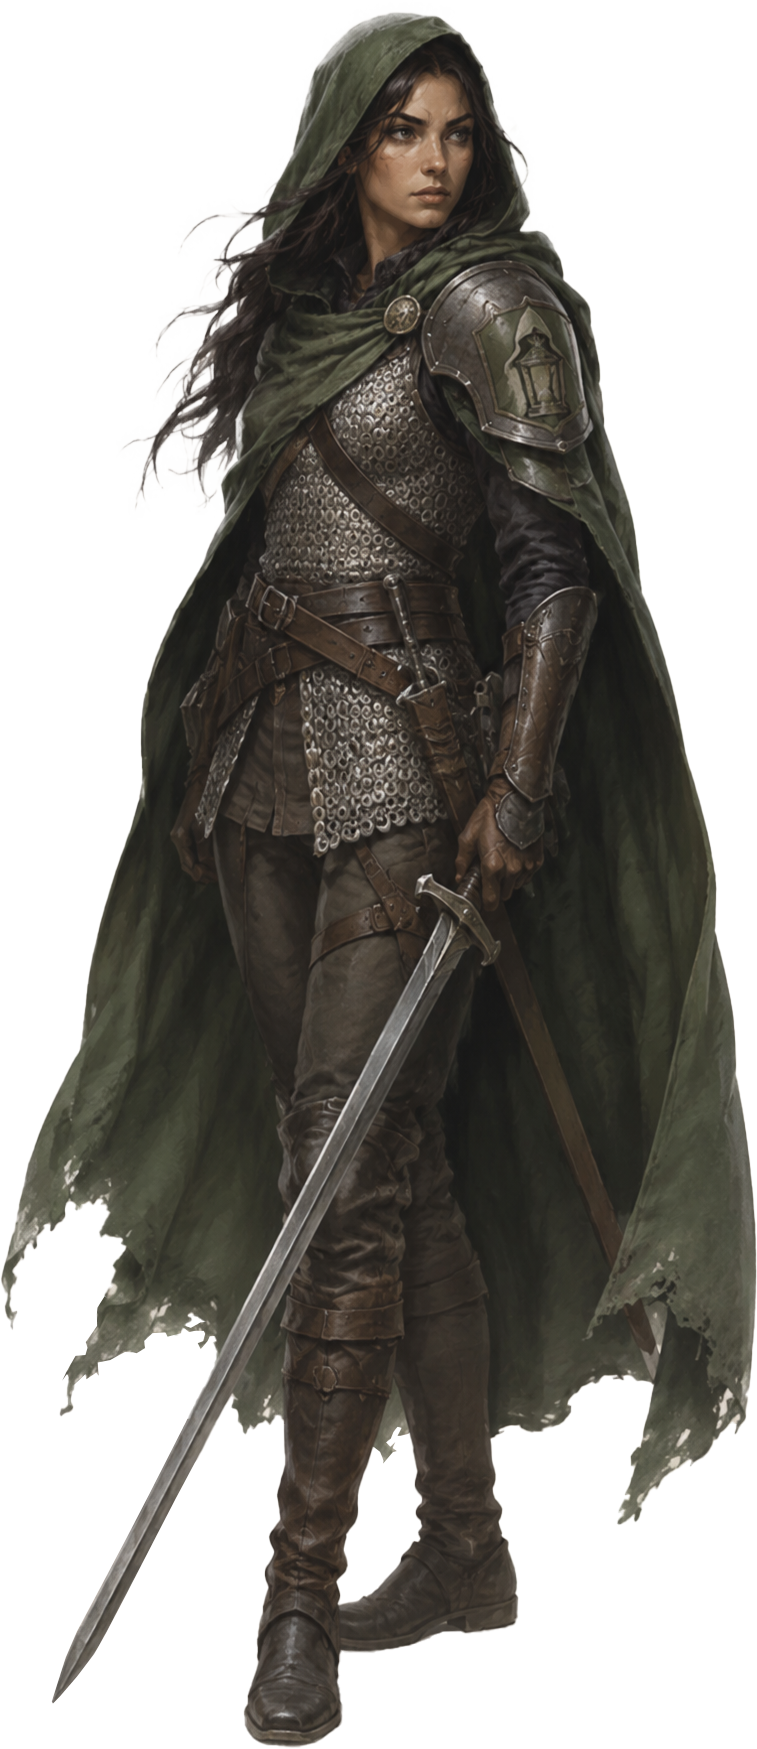
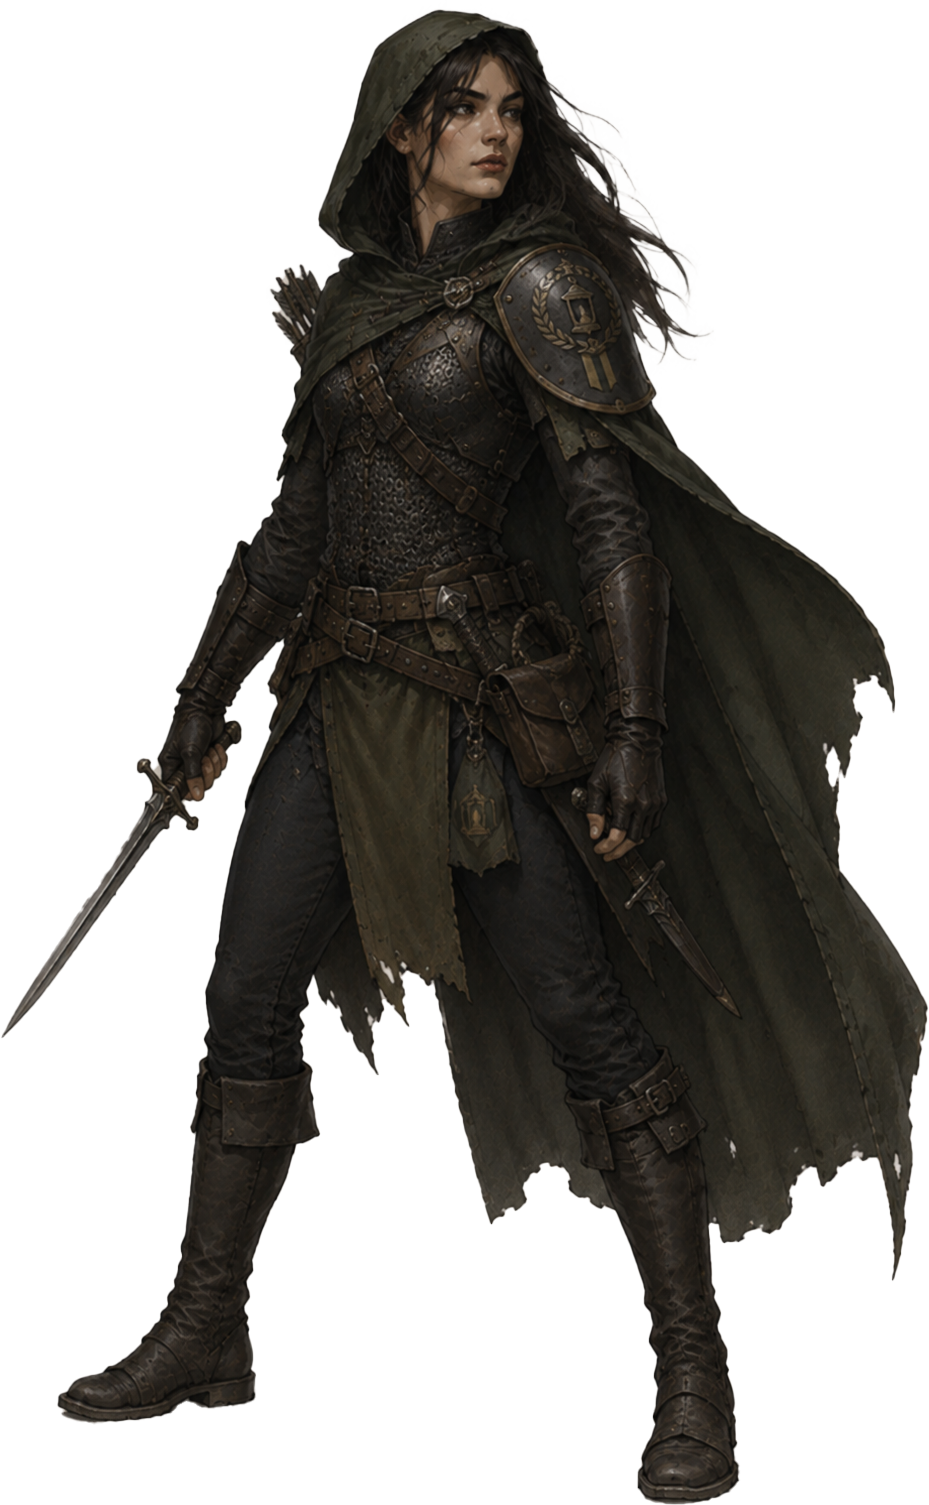
Update Templates and test NPC Player View

diff --git a/The NPCs/Ansom Lang.md b/The NPCs/Ansom Lang.md
@@ -13,28 +13,9 @@ Affiliations: [ "[[Hooded Lanterns]]" ]
 ---
 
 # Overview
-
-##### ***Personality Traits***
-<ul>
- <li>Estou em Drakkenheim há tempo suficiente para saber não confiar em ninguém;</li>
- <li>Sou extremamente cauteloso com aventureiros e com quem possa causar problemas aos [[Hooded Lanterns]];</li>
-</ul>
-
-##### *Ideals*
-<ul>
- <li>Se eu e a minha irmã trabalharmos suficiente, com as pessoas certas, talvez consigamos mudar as coisas.</li>
-</ul>
-
-##### *Bonds*
-<ul>
- <li>Eu e [[Petra Lang]] protegemos as costas um do outro desde crianças e isso nunca mudará.</li>
-</ul>
-
-##### *Flaws*
-<ul>
- <li>Encontro razões para não gostar de pessoas e para duvidar do compromisso das pessoas à minha volta.</li>
-</ul>
-
-# Objectives
-
-# Stat Block
+Ansom Lang é o Capitão dos Hooded Lanterns, agindo juntamente com a sua irmã [[Petra Lang]] como braço direito de [[Elias Drexel|Lord Commander Elias Drexel]].
+## Interações
+Capturado por [[Ratlings]] e levado até ao seu ninho debaixo da [[Rat's Nest Tavern]] durante uma incursão mal planeada. A sua captura permitiu aos seus camaradas saírem são e salvos da emboscada. Foi aqui encontrado e resgatado por um bando de aventureiros que retornaram com ele à [[Emberwood Village]].
+- Pediu aos aventureiros que o levassem a [[Shepherd's Gate]], onde se poderia reunir com os seus camaradas.
+## Personalidade
+Desconfiado, mas as suas circunstâncias não o permitiam recusar ajuda. Parece ser uma pessoa genuína mas cautelosa.

diff --git a/The Factions/Hooded Lanterns.md b/The Factions/Hooded Lanterns.md
@@ -28,19 +28,19 @@ Agora reduzidos a combater uma guerrilha contra monstros, bandidos e farrapeiros
 
 # Strongholds
 
-# Key Characters
-<div class="gallery">
+# Characters
+<div class="small gallery">
   <figure>
     [[Elias Drexel|![[npc_elias_drexel.png]]]]
-    <figcaption>Lord Commander Elias Drexel</figcaption>
+    <figcaption style="font-weight:bold; color:lavender">Lord Commander Elias Drexel</figcaption>
   </figure>
   <figure>
     [[Petra Lang|![[npc_petra_lang.png]]]]
-    <figcaption>Lieutenant Petra Lang</figcaption>
+    <figcaption style="font-weight:bold; color:lavender">Lieutenant Petra Lang</figcaption>
   </figure>
   <figure>
     [[Ansom Lang|![[npc_ansom_lang.png]]]]
-    <figcaption>Captain Ansom Lang</figcaption>
+    <figcaption style="font-weight:bold; color:lavender">Captain Ansom Lang</figcaption>
   </figure>
 </div>
 

diff --git a/The Factions/Amethyst Academy.md b/The Factions/Amethyst Academy.md
@@ -30,15 +30,15 @@ O [[Eldrick Runeweaver|Archwizard Eldrick Runeweaver]] lidera os esforços para 
 
 # Strongholds
 
-# Key Characters
-<div class="gallery">
+# Characters
+<div class="small gallery">
   <figure>
     [[Eldrick Runeweaver|![[npc_eldrick_runeweaver.png]]]]
-    <figcaption>Archwizard Eldrick Runeweaver</figcaption>
+    <figcaption style="font-weight:bold; color:lavender">Archwizard Eldrick Runeweaver</figcaption>
   </figure>
   <figure>
     [[River|![[npc_river.png]]]]
-    <figcaption>River</figcaption>
+    <figcaption style="font-weight:bold; color:lavender">River</figcaption>
   </figure>
 </div>
 

diff --git a/The NPCs/River.md b/The NPCs/River.md
@@ -15,24 +15,24 @@ Affiliations: [ "[[Amethyst Academy]]" ]
 # Overview
 River é sempre acompanhada por um Imp familiar e um Shield Guardian bodyguard.
 
-##### ***Personality Traits***
+<span style="font-family: 'Cinzel'; font-size: 0.9rem; color:salmon; font-weight:bold">*Personality Traits*</span>
 <ul>
  <li>Uso terminologia académica precisa;</li>
  <li>Com aqueles que considero competentes e capazes, injeto um sentido de humor irónico e sardónico.</li>
 </ul>
 
-##### *Ideals*
+<span style="font-family: 'Cinzel'; font-size: 0.9rem; color:salmon; font-weight:bold">*Ideals*</span>
 <ul>
  <li>Gosto de pessoas professionais, que mostram resultados, e que não fazem questões;</li>
  <li>Não suporto aqueles que me fazem perder tempo com idiotices, regateios e desculpas.</li>
 </ul>
 
-##### *Bonds*
+<span style="font-family: 'Cinzel'; font-size: 0.9rem; color:salmon; font-weight:bold">*Bonds*</span>
 <ul>
  <li>[[Eldrick Runeweaver]] é o meu mentor, professor e amigo. Trabalhei com ele durante anos e todo o seu sucesso é meu também.</li>
 </ul>
 
-##### *Flaws*
+<span style="font-family: 'Cinzel'; font-size: 0.9rem; color:salmon; font-weight:bold">*Flaws*</span>
 <ul>
  <li>Cresci rodeada pelos confortos mágicos da [[Amethyst Academy]] e por isso não compreendo como é a vida dos que tiveram outro tipo de educação.</li>
 </ul>

diff --git a/_system/templates/_template Factions.md b/_system/templates/_template Factions.md
@@ -25,11 +25,15 @@ Key Characters: []
 
 # Strongholds
 
-# Key Characters
+# Characters
 <div class="gallery">
   <figure>
     [[Character Page|![[npc_image.png]]]]
-    <figcaption>Caption</figcaption>
+    <figcaption style="font-weight:bold; color:lavender">Key Character</figcaption>
+  </figure>
+  <figure>
+    [[Character Page|![[npc_image.png]]]]
+    <figcaption>Faction Member</figcaption>
   </figure>
 </div>
 

diff --git a/_system/templates/_template NPC.md b/_system/templates/_template NPC.md
@@ -8,22 +8,22 @@ Descrição: ""
 
 # Overview
 
-##### ***Personality Traits***
+<span style="font-family: 'Cinzel'; font-size: 0.9rem; color:salmon; font-weight:bold">*Personality Traits*</span>
 <ul>
  <li>Trait;</li>
 </ul>
 
-##### *Ideals*
+<span style="font-family: 'Cinzel'; font-size: 0.9rem; color:salmon; font-weight:bold">*Ideals*</span>
 <ul>
  <li>Ideal;</li>
 </ul>
 
-##### *Bonds*
+<span style="font-family: 'Cinzel'; font-size: 0.9rem; color:salmon; font-weight:bold">*Bonds*</span>
 <ul>
  <li>Bond;</li>
 </ul>
 
-##### *Flaws*
+<span style="font-family: 'Cinzel'; font-size: 0.9rem; color:salmon; font-weight:bold">*Flaws*</span>
 <ul>
  <li>Flaw;</li>
 </ul>

diff --git a/The City Outskirts/Eckerman Mill.md b/The City Outskirts/Eckerman Mill.md
@@ -1,0 +1,4 @@
+---
+tags: [add, your, tags]
+---
+

diff --git a/The City Outskirts/Emberwood Village.md b/The City Outskirts/Emberwood Village.md
@@ -1,0 +1,4 @@
+---
+tags: [add, your, tags]
+---
+